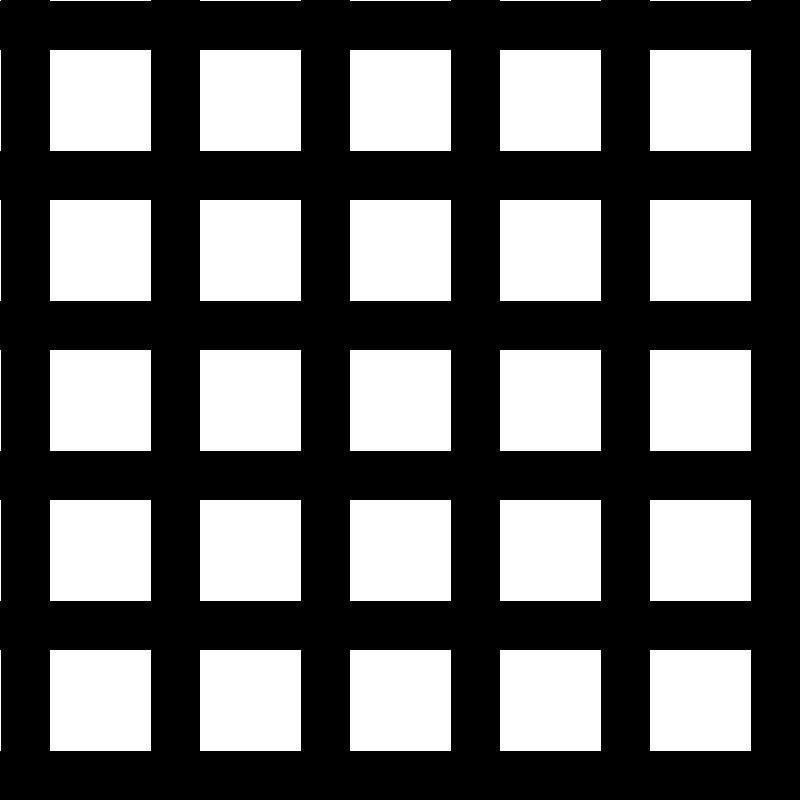
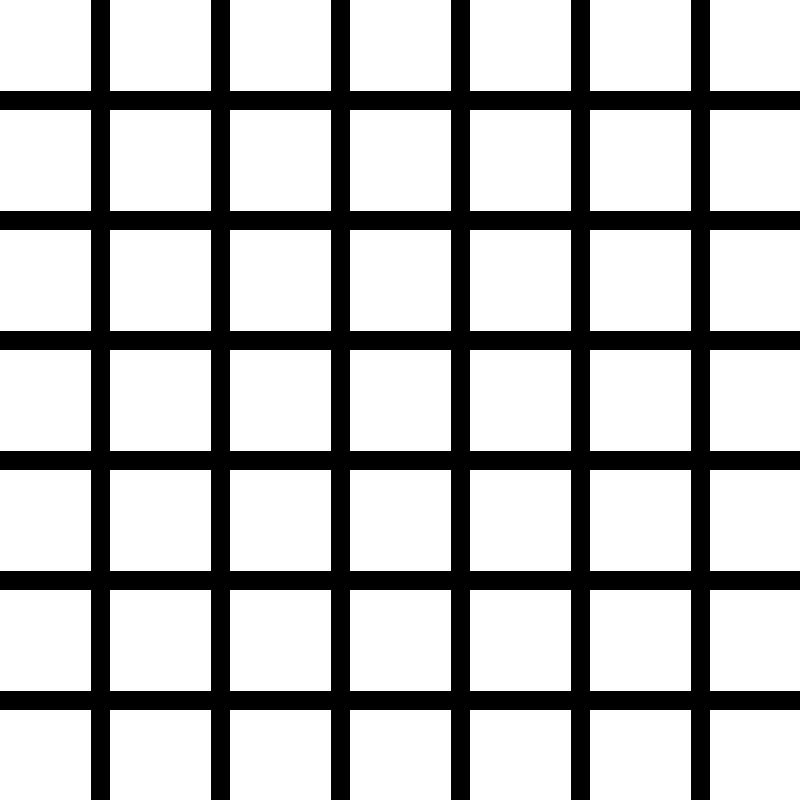
Patterns on images

diff --git a/src/pl/potera/Main.java b/src/pl/potera/Main.java
@@ -4,22 +4,41 @@ import pl.potera.patterns.Chessboard;
 import pl.potera.patterns.Grid;
 import pl.potera.patterns.Ring;
 import pl.potera.utils.ColorsUtils;
+import pl.potera.utils.FileUtils;
+import sun.awt.image.OffScreenImage;
+
+import javax.imageio.ImageIO;
+import java.awt.image.BufferedImage;
+import java.io.File;
+import java.io.IOException;
 
 public class Main {
 
-    public static void main(String[] args) {
+    public static void main(String[] args) throws IOException {
 
         int x_res = 800, y_res = 800;
 
         Ring ring = new Ring(x_res, y_res, 20, 0);
 
-        Grid grid = new Grid(50, 200, 200, ColorsUtils.BLACK_RGB);
+        Grid grid = new Grid(20, 200, 200, ColorsUtils.BLACK_RGB);
         grid.renderImage(x_res, y_res);
+        BufferedImage wroclaw_grid = grid.renderOnImage(readWroclawImage());
+        FileUtils.saveImage(wroclaw_grid, "patterns/wroclaw_grid.jpg");
 
         Chessboard chessboard = new Chessboard(50, ColorsUtils.BLACK_RGB);
         chessboard.renderImage(x_res, y_res);
+        BufferedImage wroclaw_chessboard = chessboard.renderOnImage(readWroclawImage());
+        FileUtils.saveImage(wroclaw_chessboard, "patterns/wroclaw_chessboard.jpg");
 
 
 
+    }
+
+    private static BufferedImage readWroclawImage() throws IOException {
+        try {
+            return ImageIO.read(new File("images/wroclaw.jpg"));
+        } catch (IOException e) {
+            throw new IOException("failed to open file");
+        }
     }
 }

diff --git a/src/pl/potera/patterns/Grid.java b/src/pl/potera/patterns/Grid.java
@@ -36,7 +36,7 @@ public class Grid {
         return renderOnImage(ImagesUtils.whiteImage(x_res, y_res));
     }
 
-    private RenderedImage renderOnImage(BufferedImage image) {
+    public BufferedImage renderOnImage(BufferedImage image) {
         for (int i = 0; i < image.getHeight(); i++)
             for (int j = 0; j < image.getWidth(); j++){
                 int pixelColor = getPixelColor(distance(j, image.getWidth()), distance(i, image.getHeight()));
